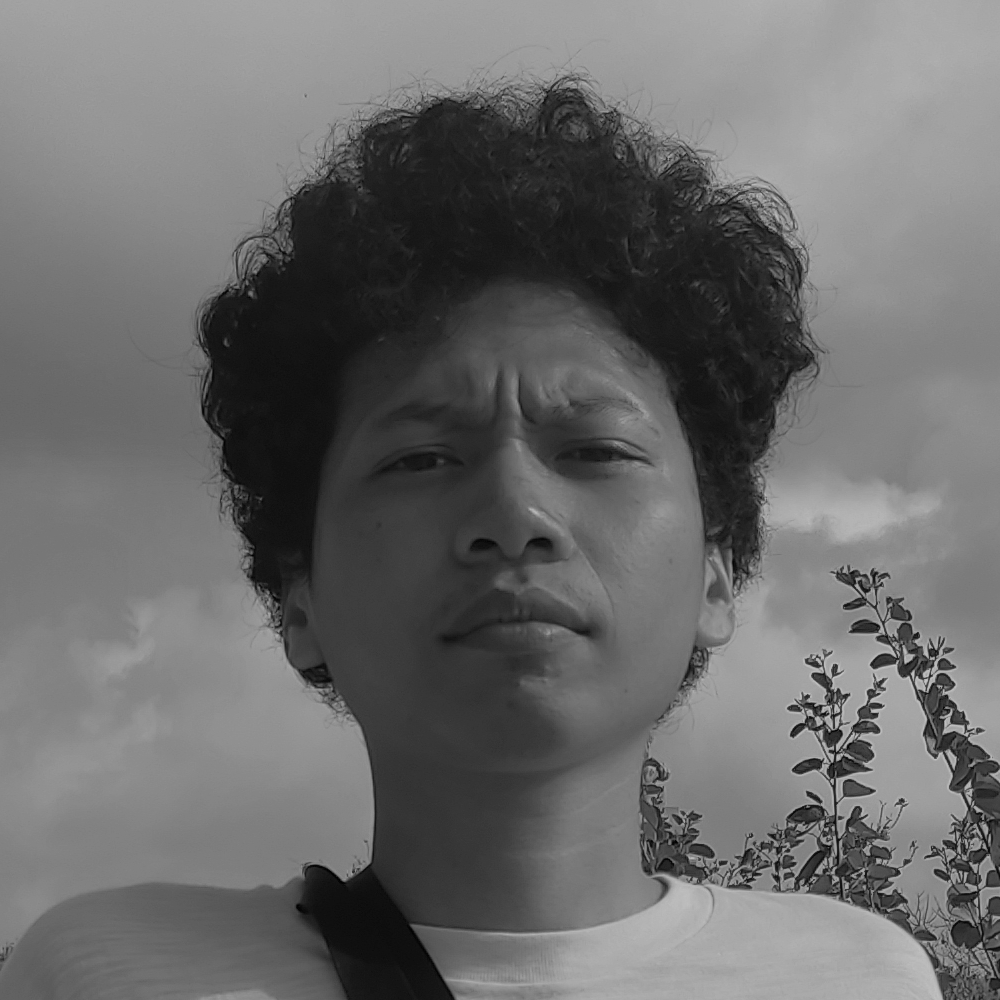
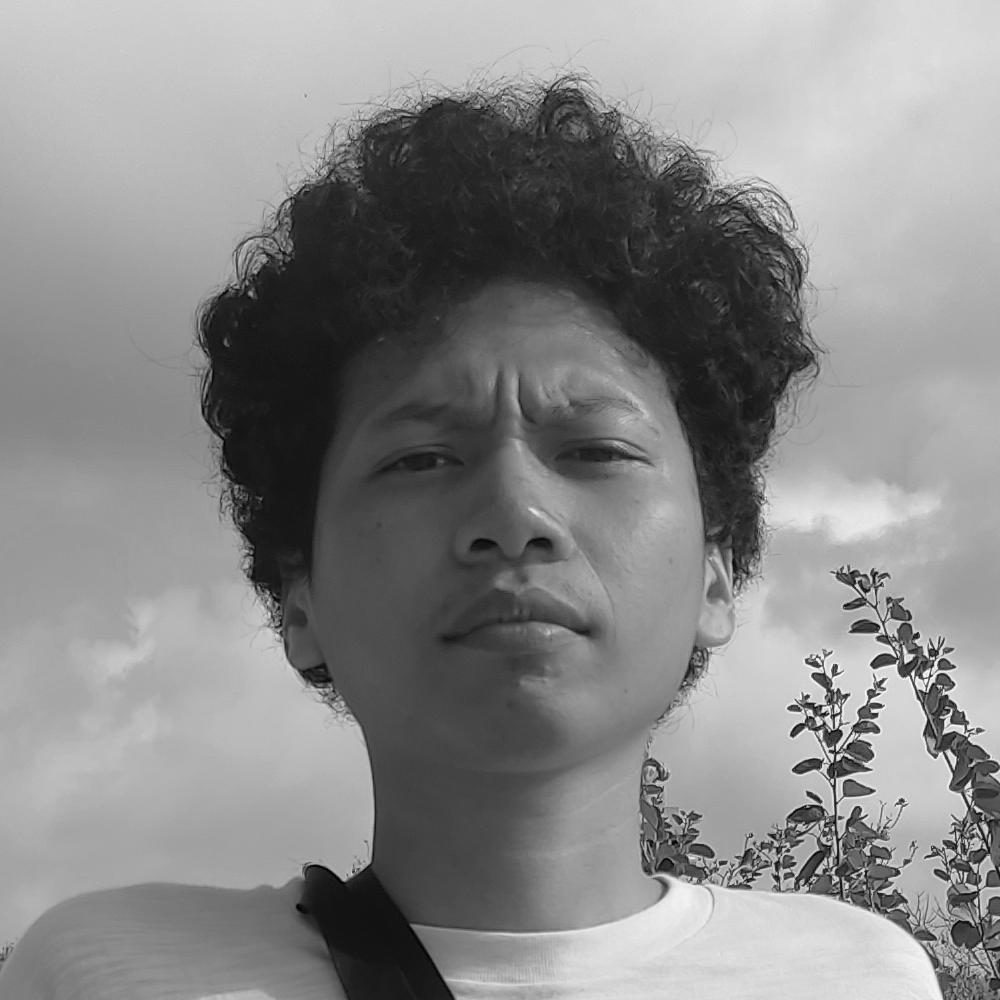
fix photo profile

diff --git a/index.html b/index.html
@@ -78,7 +78,7 @@
     <section id="about">
       <p class="section_text_p1">Get To Know More</p>
       <h1 class="title">About Me</h1>
- 
+      <div class="section-container">
         <div class="about-details-container">
           <div class="about-containers">
             <div class="details-container">
@@ -113,7 +113,7 @@
             </p>
           </div>
         </div>
-
+      </div>
       <img
         src="./assets/icon/arrow.png"
         alt="Arrow icon"
@@ -124,7 +124,7 @@
     <section id="experience">
       <p class="section_text_p1">Explore My</p>
       <h1 class="title">Experience</h1>
-      <div class="experience-details-container">
+      <div class="experience-detail-container">
         <div class="about-containers">
           <div class="details-container">
             <h2 class="experience-sub-title">Android Developer</h2>
@@ -135,9 +135,7 @@
                   alt="icon experience"
                   class="icon"
                 />
-                <div>
-                  <h2>Kotlin</h2>
-                </div>
+                <h2>Kotlin</h2>
               </article>
               <article>
                 <img
@@ -145,9 +143,7 @@
                   alt="icon experience"
                   class="icon"
                 />
-                <div>
-                  <h2>Android</h2>
-                </div>
+                <h2>Android</h2>
               </article>
               <article>
                 <img
@@ -155,9 +151,7 @@
                   alt="icon experience"
                   class="icon"
                 />
-                <div>
-                  <h2>UX</h2>
-                </div>
+                <h2>Github</h2>
               </article>
               <article>
                 <img
@@ -165,9 +159,7 @@
                   alt="icon experience"
                   class="icon"
                 />
-                <div>
-                  <h2>Github</h2>
-                </div>
+                <h2>UX</h2>
               </article>
             </div>
           </div>
@@ -183,7 +175,7 @@
     <section id="projects">
       <p class="section_text_p1">Browse My Recent</p>
       <h1 class="title">Projects</h1>
-      <div class="experience-details-container">
+      <div class="experience-detail-container">
         <div class="about-containers">
           <div class="details-container color-container">
             <div class="article-container">
@@ -267,14 +259,13 @@
             class="icon contact-icon"
           />
           <p>
-            <a href="www.linkedin.com/in/setyo-a-4a393b132">Setyo Adi Sasono</a>
+            <a href="www.linkedin.com/in/setyo-a-4a393b132"
+              >www.linkedin.com/in/setyo-a-4a393b132</a
+            >
           </p>
         </div>
       </div>
     </section>
-    <footer>
-      <p>Copyright &#169; 2024 Setyo Adi Sasono. All Rights Reserved.</p>
-    </footer>
     <script src="script.js"></script>
   </body>
 </html>

diff --git a/style.css b/style.css
@@ -156,10 +156,6 @@ section {
   min-height: fit-content;
 }
 
-.section-container {
-  display: flex;
-}
-
 /* Profile Section */
 
 #profile {
@@ -281,8 +277,8 @@ section {
   display: flex;
 }
 
-.about-pic {
-  border-radius: 2rem;
+.profile-pic {
+  border-radius: 50%;
 }
 
 .arrow {
@@ -290,7 +286,6 @@ section {
   right: -5rem;
   bottom: 2.5rem;
 }
-
 
 .details-container {
   padding: 1.5rem;
@@ -300,11 +295,6 @@ section {
   border: rgb(53, 53, 53) 0.1rem solid;
   border-color: rgb(163, 163, 163);
   text-align: center;
-}
-
-.section-container {
-  gap: 4rem;
-  height: 80%;
 }
 
 .section_pic-container {
@@ -317,7 +307,6 @@ section {
 
 #experience {
   position: relative;
-  height: 55vh;
 }
 
 .experience-sub-title {
@@ -327,7 +316,7 @@ section {
   margin-bottom: 2rem;
 }
 
-.experience-detail-container {
+.experience-details-container {
   display: flex;
   justify-content: center;
   flex-direction: column;
@@ -344,10 +333,9 @@ section {
 
 article {
   display: flex;
-  width: 5rem;
+  width: 10rem;
   justify-content: space-around;
   gap: 0.5rem;
-
 }
 
 article .icon {
@@ -399,7 +387,6 @@ article .icon {
   background: rgb(250, 250, 250);
   margin: 2rem auto;
   padding: 0.5rem;
-
 }
 
 .contact-info-container {
@@ -423,3 +410,12 @@ article .icon {
   height: 2.5rem;
 }
 
+/* Footer */
+
+footer {
+  height: 8vh;
+}
+
+footer p {
+  text-align: center;
+}
